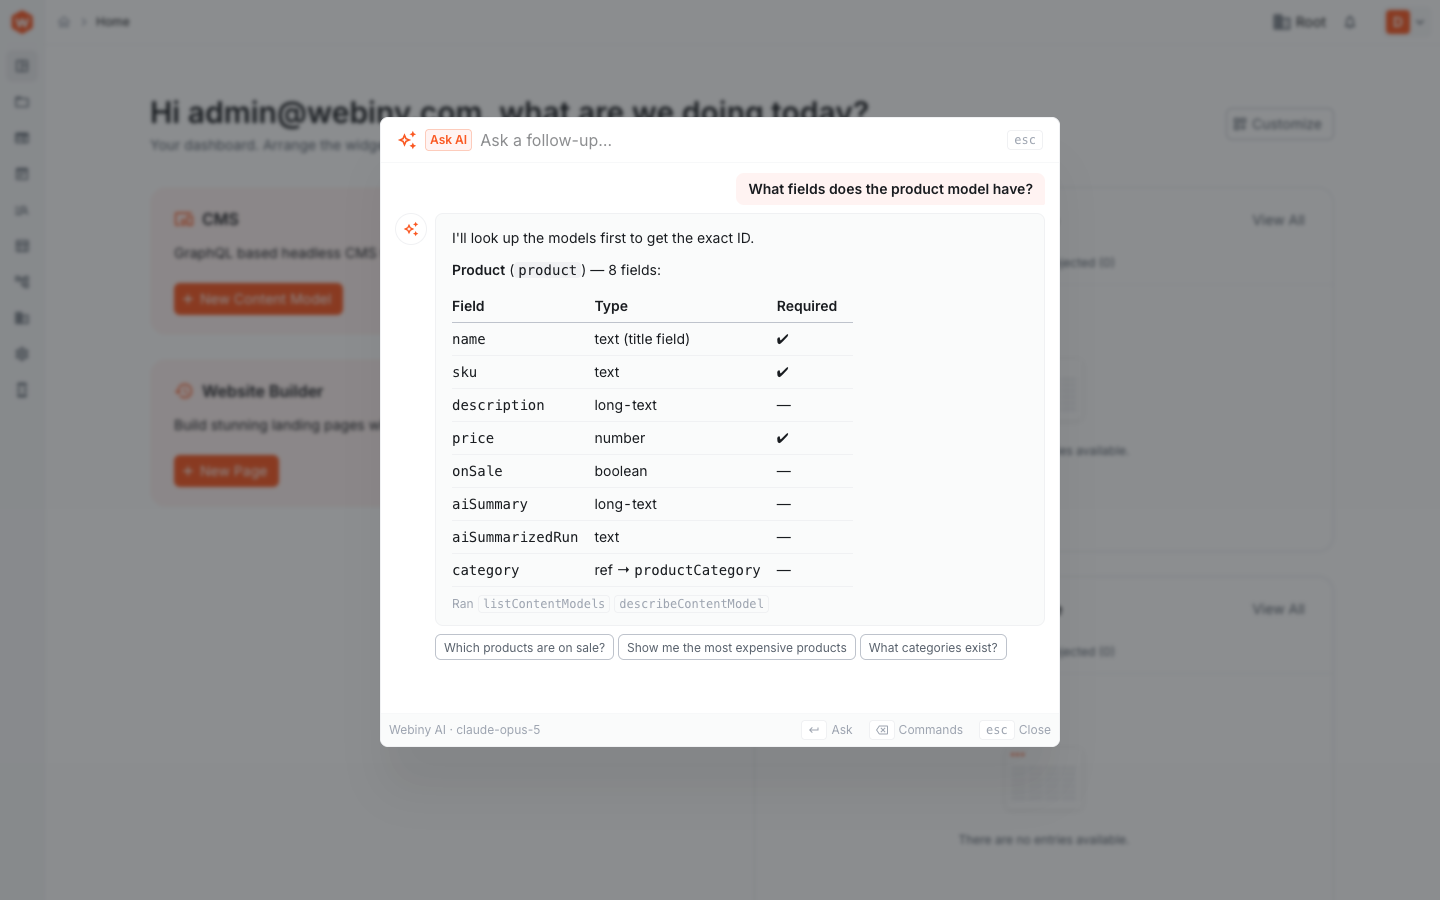
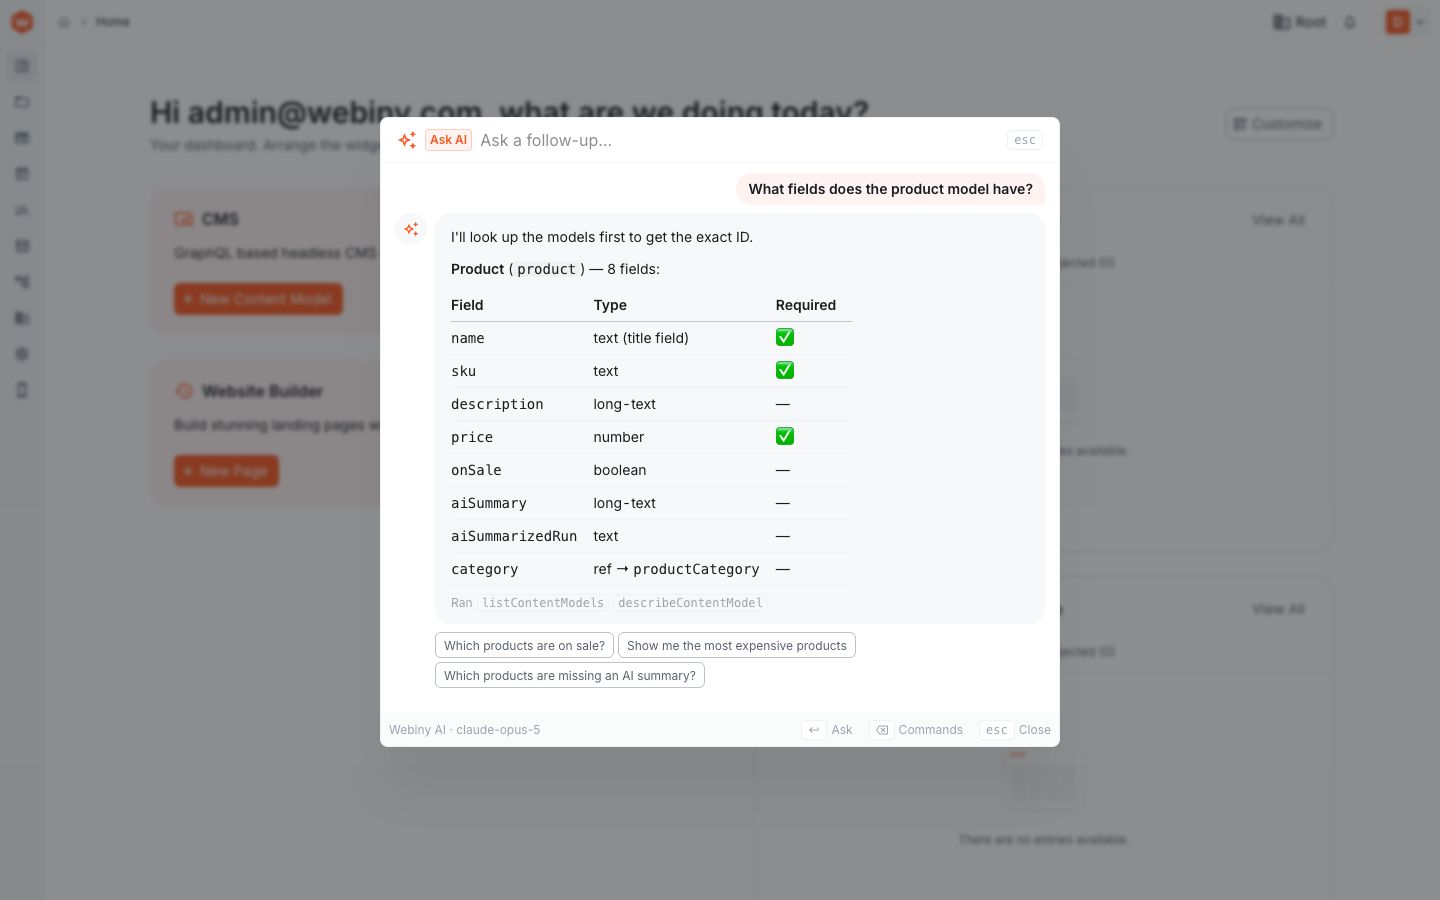
style(app-admin-ui): style the answer box like the dashboard's light widget
The answer box had a border that nothing else in the admin uses on a
filled surface. It now matches Widget's `light` variant: neutral-light
fill, rounded-xl, no border. The question bubble already used the
`accent` fill and now shares the same radius. The assistant's mark
drops its border for the same fill.

Changed region(s): [[0.3125, 0.2489, 0.6875, 0.7778], [0.5312, 0.3111, 0.5938, 0.4356], [0.5312, 0.4667, 0.5625, 0.4978]]

diff --git a/packages/app-admin-ui/src/CommandPalette/components/AiTurn.tsx b/packages/app-admin-ui/src/CommandPalette/components/AiTurn.tsx
@@ -33,8 +33,8 @@ const AnswerError = ({ message }: { message: string }) => (
  * chat sidebar. Tables get rules and padding, since a list of models or entries often comes back as
  * one, and the compiler emits bare cells.
  *
- * The answer box is `neutral-subtle`, the same shade the shared defaults use for inline code and for
- * light rules, so both step one shade darker here to stay visible on it.
+ * The answer box is `neutral-light`, a shade darker than the shared defaults' inline code and light
+ * rules, so both step darker here to stay visible on it.
  */
 const ANSWER_CLASSES = [
     "leading-[24px] text-neutral-primary",
@@ -94,8 +94,8 @@ export interface AiTurnProps {
 }
 
 /*
- * The question is a bubble on the right. The answer sits in a light box on the left beside the
- * assistant's mark, holding only the text and the tools it ran. The approval card and the follow-ups
+ * The question is a bubble on the right. The answer sits in a filled box on the left, styled like
+ * the dashboard's `light` widget (fill and radius, no border), beside the assistant's mark, holding only the text and the tools it ran. The approval card and the follow-ups
  * go under the box, not in it: the approval card is a box of its own, and nesting it would be a card
  * inside a card. A failed turn shows the error block in place of the box, for the same reason.
  *
@@ -113,14 +113,14 @@ export const AiTurn = ({ turn, latest, busy, onApprove, onReject, onAsk }: AiTur
                 <Text
                     as="div"
                     size="md"
-                    className="max-w-[80%] rounded-lg rounded-br-xs bg-primary-subtle px-sm-extra py-xs-plus font-semibold text-pretty text-neutral-primary"
+                    className="max-w-[80%] rounded-xl rounded-br-xs bg-primary-subtle px-sm-extra py-xs-plus font-semibold text-pretty text-neutral-primary"
                 >
                     {turn.question}
                 </Text>
             </div>
 
             <div className="flex items-start gap-sm px-sm">
-                <span className="grid size-xl shrink-0 place-items-center rounded-full border border-neutral-dimmed bg-neutral-base">
+                <span className="grid size-xl shrink-0 place-items-center rounded-full bg-neutral-light">
                     <Icon icon={<AiIcon />} size="sm" label="Assistant" color="accent" />
                 </span>
                 <div className="min-w-0 flex-1">
@@ -130,7 +130,7 @@ export const AiTurn = ({ turn, latest, busy, onApprove, onReject, onAsk }: AiTur
                             <ToolTrace turn={turn} />
                         </>
                     ) : answer ? (
-                        <div className="rounded-lg border border-neutral-dimmed bg-neutral-subtle px-md py-sm-extra">
+                        <div className="rounded-xl bg-neutral-light px-md py-sm-extra">
                             {answer}
                             <ToolTrace turn={turn} />
                         </div>
